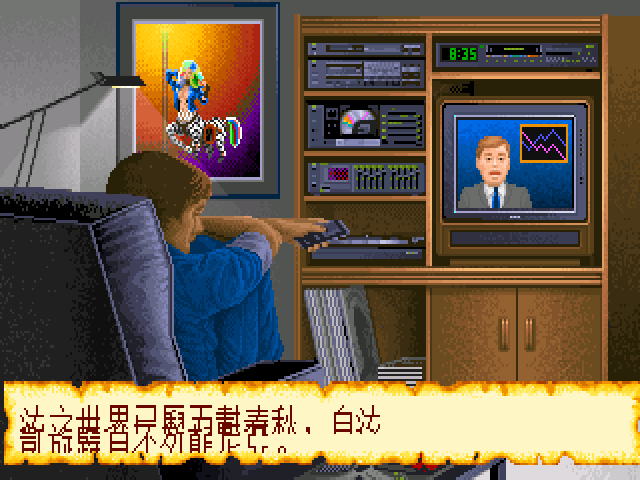
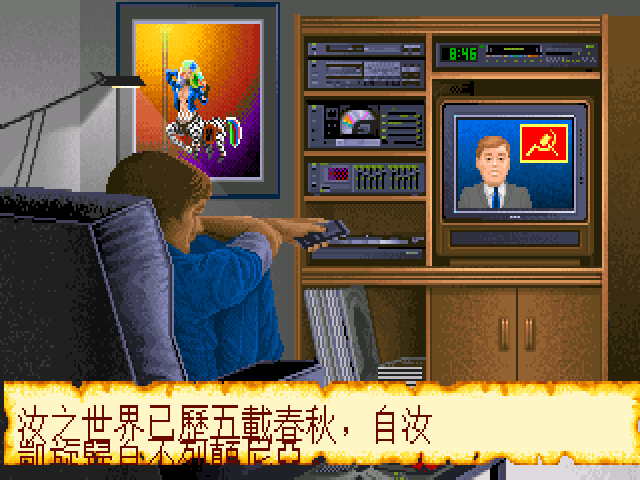
README: 更新 intro 截圖（14-px CJK line spacing 後）+ 加 seg 2
v2-16x16 branch commit 96174c8 cutscene line spacing fix 後重抓截圖：
- intro_seg1: 「汝之世界已歷五載春秋」 16×16
- intro_seg2: 三行 fit, cutscene 動態 line height 14 (CJK) / 8 (ASCII)

Changed region(s): [[0.0312, 0.8438, 0.6562, 0.9688], [0.8125, 0.25, 0.9062, 0.3438], [0.75, 0.3438, 0.7812, 0.375]]

diff --git a/README.md b/README.md
@@ -43,8 +43,11 @@
 ![v2-throne-room](docs/screenshots/v2/throne_room_16x16_native.png)
 *v2.0 throne room — 「**杜普雷／夏米諾／尤洛**」16×16 native，「杜」字「木」結構的中豎、橫貫、左右撇捺完全分明，不再跟「壯」「狀」「牡」混淆（朋友 finding 解決）。*
 
-![v2-intro](docs/screenshots/v2/intro_seg1_16x16_native.png)
+![v2-intro-seg1](docs/screenshots/v2/intro_seg1_16x16_native.png)
 *v2.0 intro 開場「汝之世界已歷五載春秋」— 16×16 真實解析度的銳利筆畫。*
+
+![v2-intro-seg2](docs/screenshots/v2/intro_seg2_16x16_native.png)
+*v2.0 intro 第 2 段「汝以聖者之凶險...螢光中之超人...」三行 fit 進對話框 — cutscene 動態 line height 14-px 為 CJK 行 / 8-px 為 ASCII 行，解決舊版字距 vertical overlap。*
 
 v2.0 完整 design + worklist 公開在 repo：[`docs/design-B-16x16-plan.md`](docs/design-B-16x16-plan.md)、
 [`docs/WORKLIST.md`](docs/WORKLIST.md)、
